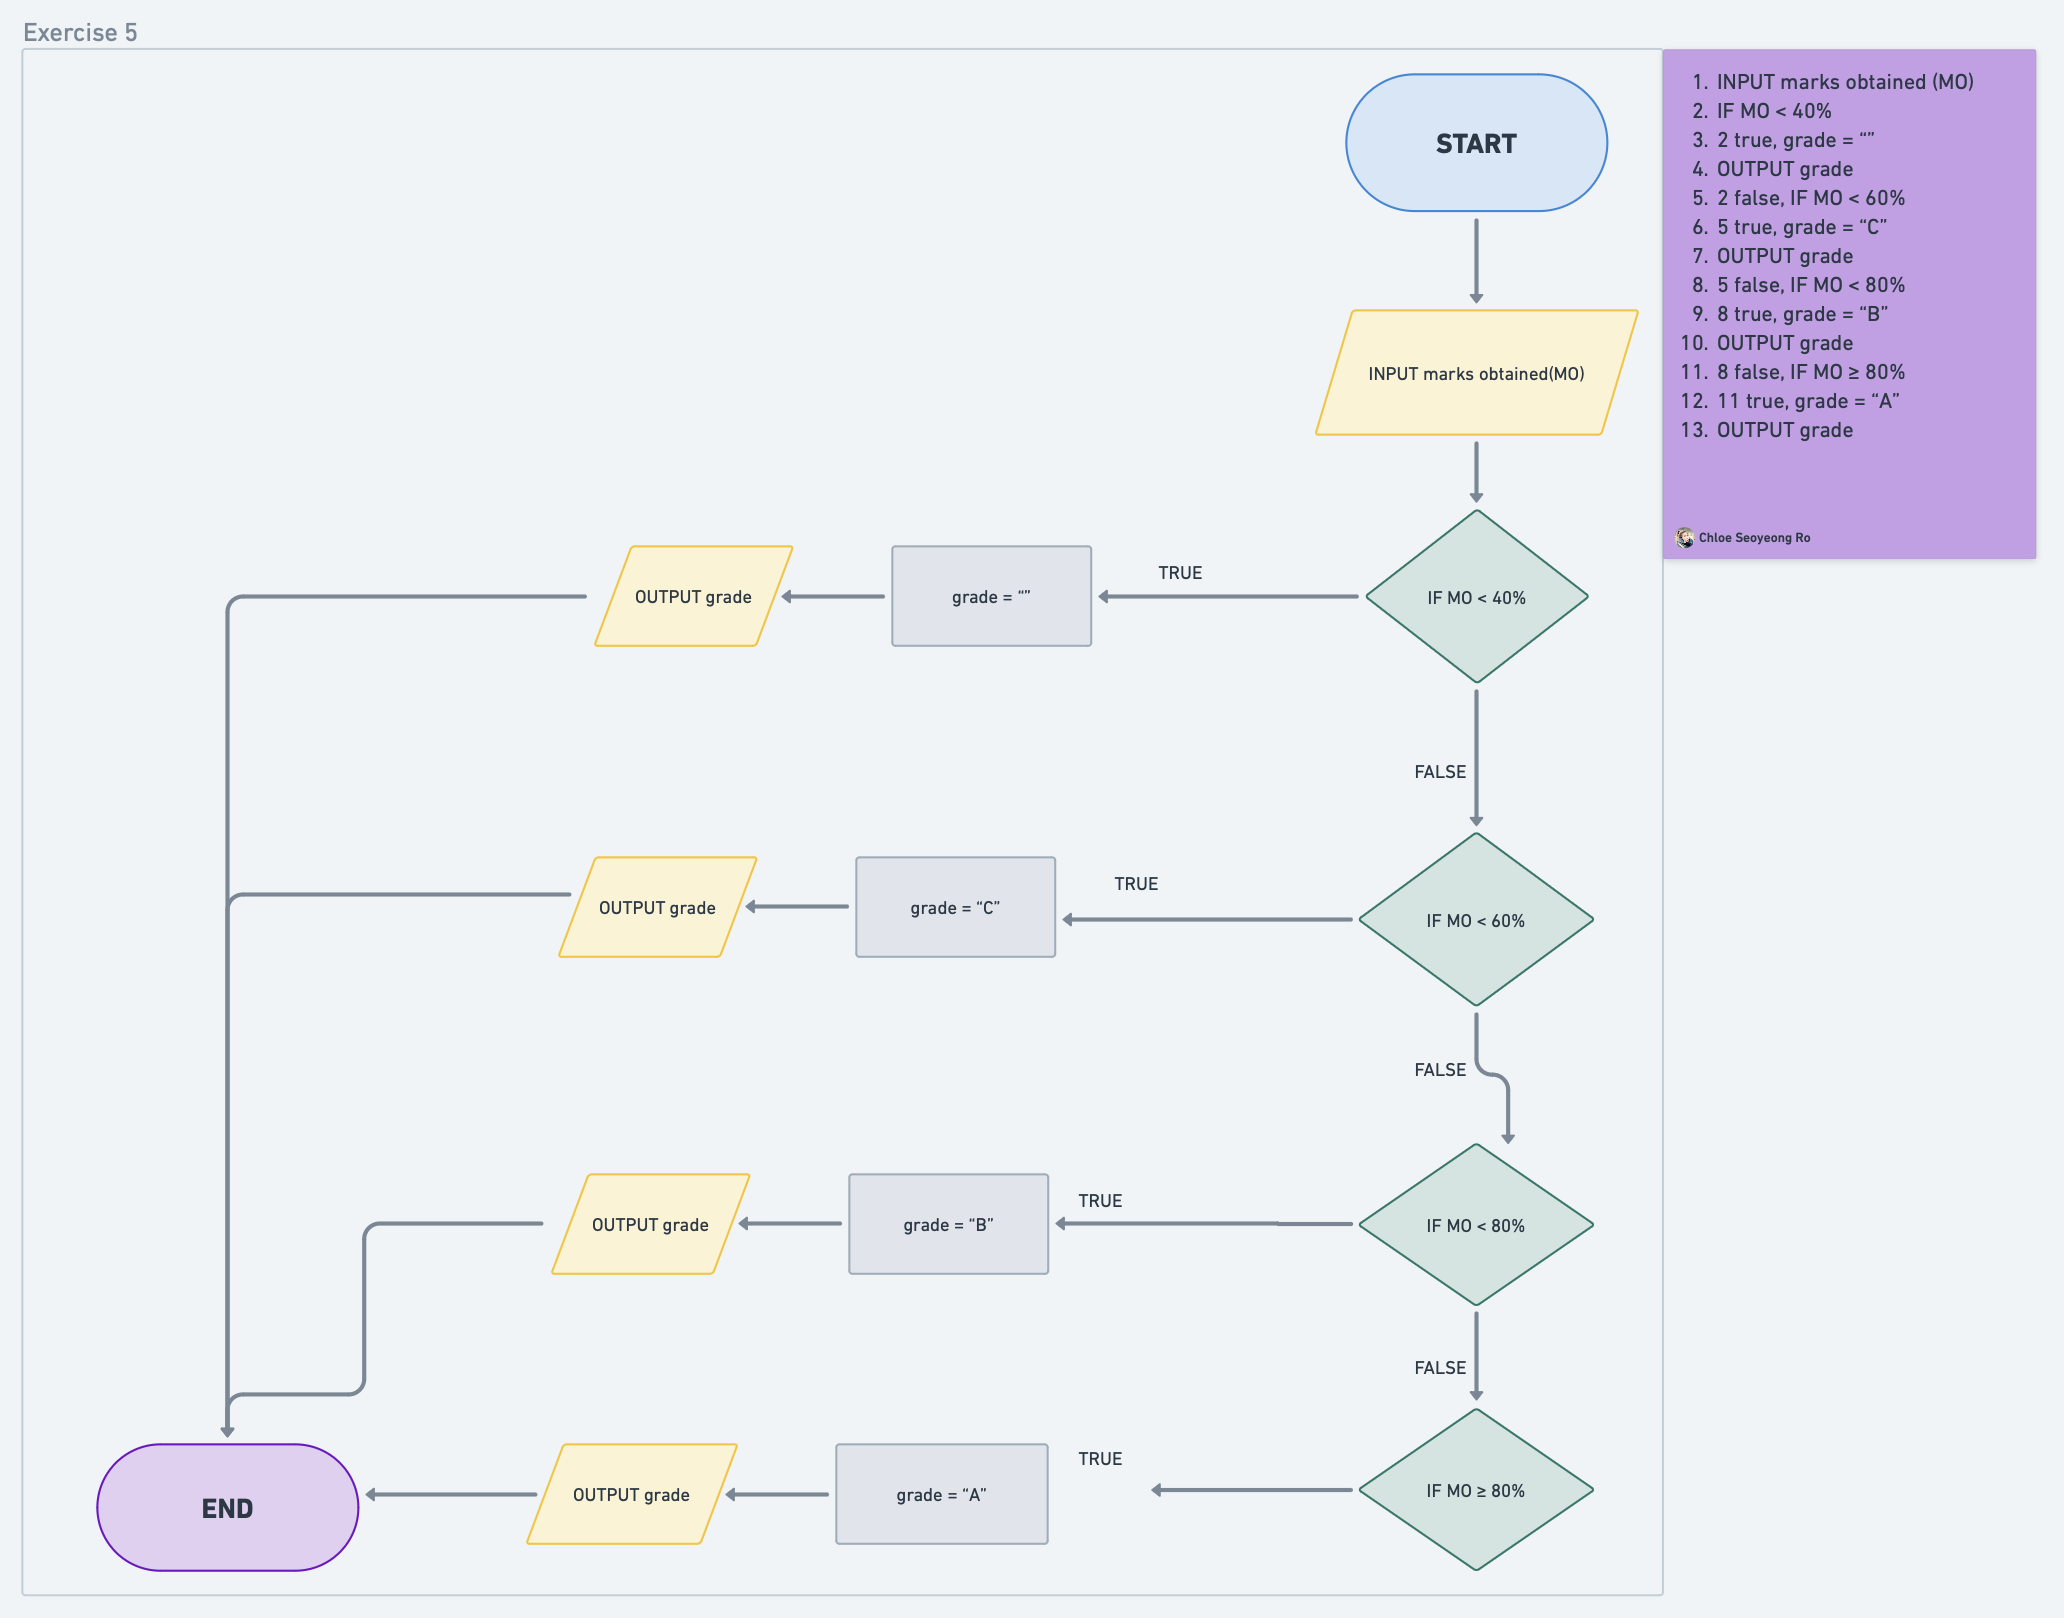
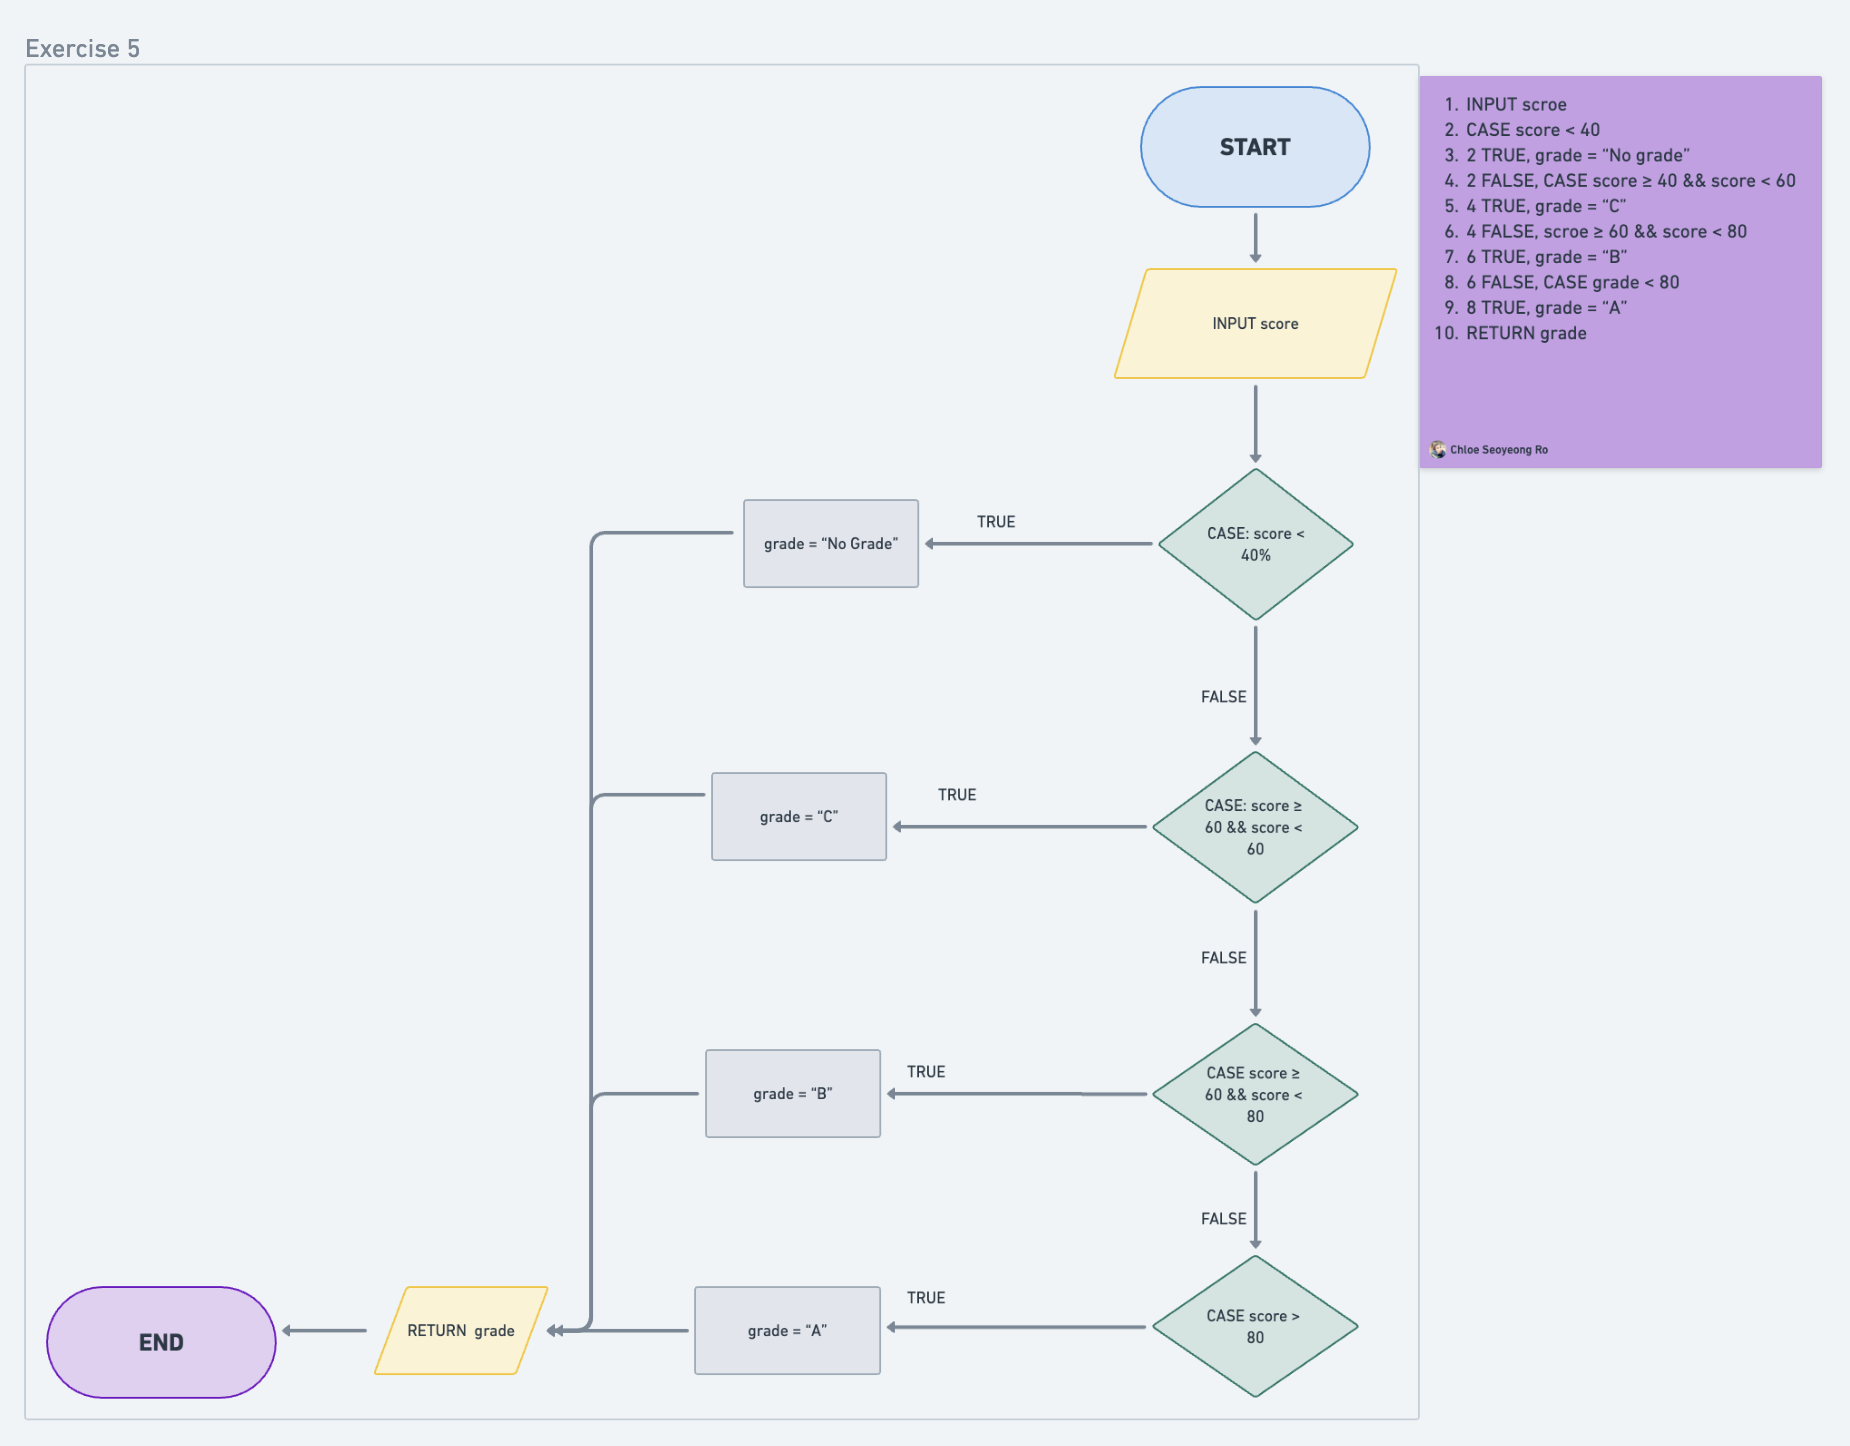
Refactoring exercise 5 flowchart and js

diff --git a/js/exercise5.js b/js/exercise5.js
@@ -1,20 +1,28 @@
-let score = 105;
 let grade = null;
 
-if (score < 40) {
-  grade = "No Grade";
-  console.log(`${grade}`);
-} else {
-  if (score < 60) {
-    grade = "C";
-    console.log(`Your grade is ${grade}`);
-  } else {
-    if (score < 80) {
-      grade ="B";
-      console.log(`Your grade is ${grade}`);
-    } else {
-        grade = "A";
-        console.log(`Your grade is ${grade}, well done! 👏`);
-    }
+function scoreGrade(score) {
+  switch (true) {
+    case (score < 40):
+      grade = "No Grade";
+      break;
+    case (score >= 40 && score < 60):
+      grade = "C";
+      break;
+    case (score >= 60 && score < 80):
+      grade = "B";
+      break;
+    case (score > 80):
+      grade = "A";
+      break;
+    default:
+      grade = "NaN"
+      break;
   }
+  return grade;
 }
+
+console.log(scoreGrade(100));
+console.log(scoreGrade(76));
+console.log(scoreGrade(53));
+console.log(scoreGrade(39));
+console.log(scoreGrade("A"));
